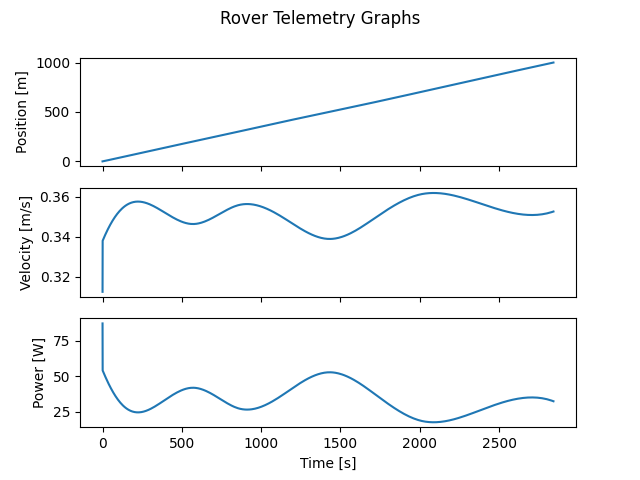
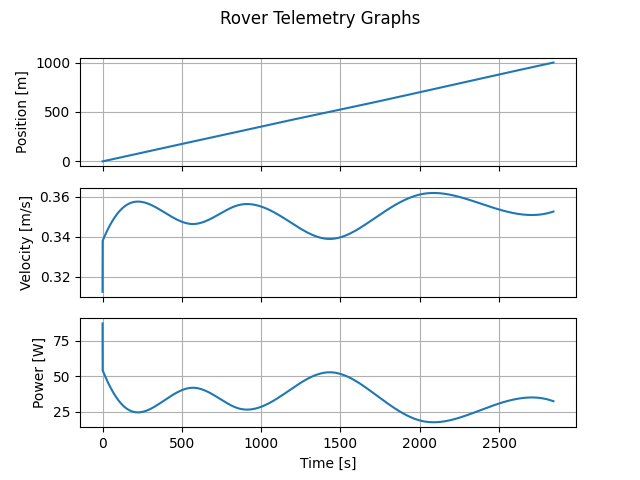
fixed some of the graphing scripts also fixed an error handling bug in subfunctions.py

diff --git a/graphers/experiment_visualization.py b/graphers/experiment_visualization.py
@@ -8,7 +8,7 @@ import matplotlib.pyplot as plt
 from scipy.interpolate import interp1d
 from scipy.integrate import solve_ivp
 
-def angle_over_distance(experiment):
+def angle_over_distance(experiment, ax=None):
     '''Plots the angle of the terrain over time
     
     This is the on we will be graded on.
@@ -22,7 +22,8 @@ def angle_over_distance(experiment):
 
     #plot of terrain angle vs rover position
     xaxis = np.linspace(alpha_dist[0], alpha_dist[-1], 100)
-    fig, ax = plt.subplots()
+    if ax is None:
+        fig, ax = plt.subplots()
     ax.plot(xaxis, alpha_fun(xaxis), label="100 evaluated terrain angles")
     ax.plot(alpha_dist, alpha_deg, 'r*', label="define_experiment data")
     ax.legend()
@@ -31,7 +32,7 @@ def angle_over_distance(experiment):
     ax.set_ylabel("Terrain Angle (deg)")
     return ax
 
-def height_over_x_distance(experiment):
+def height_over_x_distance(experiment, ax=None):
     alpha_fun = interp1d(experiment['alpha_dist'], experiment['alpha_deg'], kind='cubic', fill_value='extrapolate')
     def terrain_derivatives(s, z):
         angle = alpha_fun(s)  # angle of terrain in degrees
@@ -43,22 +44,29 @@ def height_over_x_distance(experiment):
     origin = np.array([0, 0])
     sol = solve_ivp(terrain_derivatives, t_span, y0=origin, method='RK45', t_eval=np.linspace(t_span[0], t_span[1], 10000))
 
-    fig, ax = plt.subplots()
+    if ax is None:
+        fig, ax = plt.subplots()
     ax.plot(sol.y[0], sol.y[1])
     ax.set_title("Terrain Height vs x Distance")
     ax.set_xlabel("x Distance [m]")
     ax.set_ylabel("Terrain Height [m]")
+    ax.grid()
+    ax.set_aspect('equal', adjustable='box')
     return ax
 
 
-def visualize(experiment, full=False):
+def visualize(experiment, full=False, save_plot=False):
     ax = angle_over_distance(experiment)
     plt.sca(ax)
+    if save_plot:
+        plt.savefig('plots/phase_2/angle_over_distance.png')
     if full:
         ax = height_over_x_distance(experiment)
         plt.sca(ax)
-        plt.show()
+        if save_plot:
+            plt.savefig('plots/phase_2/height_over_x_distance.png')
+    plt.show()
 
 if __name__ == '__main__':
-    experiment, end_event = experiment2()
-    visualize(experiment)
+    experiment, end_event = experiment1()
+    visualize(experiment, full=True, save_plot=True)

diff --git a/graphers/rover_experiment1.py b/graphers/rover_experiment1.py
@@ -35,6 +35,9 @@ def plot_data(telemetry, show_plots=True, save_plots=False, plot_terrain=False):
     ax3.set_ylabel('Power [W]')
     ax3.set_xlabel('Time [s]')
     fig1.suptitle('Rover Telemetry Graphs')
+    ax1.grid()
+    ax2.grid()
+    ax3.grid()
 
     # also plot the terrain information if specified
     if plot_terrain:
@@ -51,7 +54,6 @@ def plot_data(telemetry, show_plots=True, save_plots=False, plot_terrain=False):
 
 def save_telemetry_data(telemetry, filepath='plots/phase_2/telemetry_data.csv'):
     fields_to_save = ['completion_time', 'distance_traveled', 'max_velocity', 'average_velocity', 'battery_energy', 'energy_per_distance']
-    print(telemetry)
     # save a csv file with the telemetry data
     with open(filepath, 'w') as f:
         for field in fields_to_save:
@@ -59,5 +61,5 @@ def save_telemetry_data(telemetry, filepath='plots/phase_2/telemetry_data.csv'):
 
 if __name__ == '__main__':
     telemetry = get_telemetry_data()
-    plot_data(telemetry, plot_terrain=True, save_plots=True)
-    save_telemetry_data(telemetry)
+    plot_data(telemetry, show_plots=True, save_plots=True, plot_terrain=True)
+    # save_telemetry_data(telemetry)

diff --git a/subfunctions.py b/subfunctions.py
@@ -425,7 +425,7 @@ def rover_dynamics(t, y, rover, planet, experiment):
         First element is rover acceleration [m/s^2] and second is rover velocity [m/s]  
     '''
     # check that t is a scalar
-    if (type(t) != int) and (type(t) != float) and (isinstance(t, np.ScalarType)):
+    if (type(t) != int) and (type(t) != float) and (not isinstance(t, np.ScalarType)):
         raise Exception (f"argument one must be a scalar, not {type(t)}")
 
     # check that y is a np array
